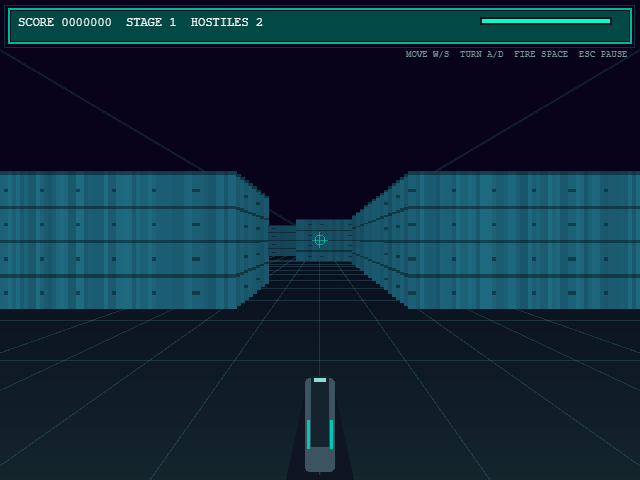
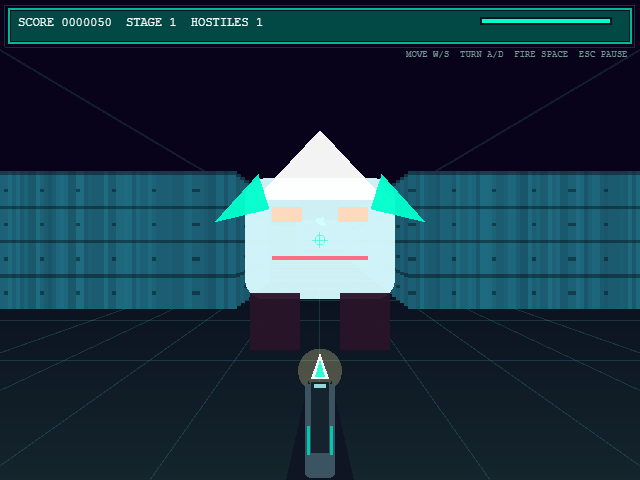
test(visuals): capture flagship combat impacts

Changed region(s): [[0.3438, 0.2812, 0.6562, 0.8125], [0.4688, 0.9375, 0.5312, 1.0]]

diff --git a/tests/e2e/flagship-visuals.spec.ts b/tests/e2e/flagship-visuals.spec.ts
@@ -1,118 +1,252 @@
-import { expect, test } from '@playwright/test';
-import { writeFile } from 'node:fs/promises';
+import { expect, test } from "@playwright/test";
+import { writeFile } from "node:fs/promises";
 
 const flagships = [
-  { index: 0, scene: 'SnakeScene', name: 'snake-evolution' },
-  { index: 1, scene: 'PongScene', name: 'neon-pong' },
-  { index: 2, scene: 'AsteroidsScene', name: 'neon-vector' },
-  { index: 3, scene: 'BreakoutScene', name: 'neon-breaker' },
-  { index: 4, scene: 'FroggerScene', name: 'froggie-crosser' },
-  { index: 5, scene: 'InvadersScene', name: 'space-defenders' },
-  { index: 6, scene: 'TetrisScene', name: 'tetris-pulse' },
-  { index: 7, scene: 'MinesweeperScene', name: 'minefield-sweep' },
-  { index: 8, scene: 'RunnerScene', name: 'pixel-runner' },
-  { index: 9, scene: 'BirdScene', name: 'brave-bird' },
-  { index: 10, scene: 'CyberScene', name: 'cyber-chasm' },
-  { index: 11, scene: 'RacerScene', name: 'cyber-racer' },
-  { index: 12, scene: 'RaycasterScene', name: 'cyber-caster' },
-  { index: 16, scene: 'TacticsScene', name: 'neon-tactics' },
-  { index: 17, scene: 'LabyrinthScene', name: 'neon-labyrinth' },
-  { index: 18, scene: 'DanmakuScene', name: 'neon-danmaku' },
-  { index: 19, scene: 'KombatScene', name: 'neon-kombat' },
-  { index: 20, scene: 'OdysseyScene', name: 'neon-odyssey' },
-  { index: 21, scene: 'ChronoScene', name: 'neon-chrono' },
-  { index: 22, scene: 'ParadoxScene', name: 'neon-paradox' },
-  { index: 23, scene: 'NexusScene', name: 'neon-nexus' },
-  { index: 24, scene: 'GenesisScene', name: 'neon-genesis' },
-  { index: 25, scene: 'OsScene', name: 'neon-os' },
-  { index: 26, scene: 'SingularityScene', name: 'the-singularity' },
-  { index: 27, scene: 'HorizonScene', name: 'event-horizon' },
-  { index: 28, scene: 'EpochScene', name: 'neon-epoch' },
-  { index: 29, scene: 'RelayScene', name: 'neon-relay' },
-  { index: 30, scene: 'SpiralScene', name: 'prism-spiral' },
+  { index: 0, scene: "SnakeScene", name: "snake-evolution" },
+  { index: 1, scene: "PongScene", name: "neon-pong" },
+  { index: 2, scene: "AsteroidsScene", name: "neon-vector" },
+  { index: 3, scene: "BreakoutScene", name: "neon-breaker" },
+  { index: 4, scene: "FroggerScene", name: "froggie-crosser" },
+  { index: 5, scene: "InvadersScene", name: "space-defenders" },
+  { index: 6, scene: "TetrisScene", name: "tetris-pulse" },
+  { index: 7, scene: "MinesweeperScene", name: "minefield-sweep" },
+  { index: 8, scene: "RunnerScene", name: "pixel-runner" },
+  { index: 9, scene: "BirdScene", name: "brave-bird" },
+  { index: 10, scene: "CyberScene", name: "cyber-chasm" },
+  { index: 11, scene: "RacerScene", name: "cyber-racer" },
+  { index: 12, scene: "RaycasterScene", name: "cyber-caster" },
+  { index: 16, scene: "TacticsScene", name: "neon-tactics" },
+  { index: 17, scene: "LabyrinthScene", name: "neon-labyrinth" },
+  { index: 18, scene: "DanmakuScene", name: "neon-danmaku" },
+  { index: 19, scene: "KombatScene", name: "neon-kombat" },
+  { index: 20, scene: "OdysseyScene", name: "neon-odyssey" },
+  { index: 21, scene: "ChronoScene", name: "neon-chrono" },
+  { index: 22, scene: "ParadoxScene", name: "neon-paradox" },
+  { index: 23, scene: "NexusScene", name: "neon-nexus" },
+  { index: 24, scene: "GenesisScene", name: "neon-genesis" },
+  { index: 25, scene: "OsScene", name: "neon-os" },
+  { index: 26, scene: "SingularityScene", name: "the-singularity" },
+  { index: 27, scene: "HorizonScene", name: "event-horizon" },
+  { index: 28, scene: "EpochScene", name: "neon-epoch" },
+  { index: 29, scene: "RelayScene", name: "neon-relay" },
+  { index: 30, scene: "SpiralScene", name: "prism-spiral" },
 ] as const;
 
-test('priority visual scenes lazy-load and render clean raw frames', async ({ page }, testInfo) => {
+test("priority visual scenes lazy-load and render clean raw frames", async ({
+  page,
+}, testInfo) => {
   test.setTimeout(90_000);
   const errors: string[] = [];
-  page.on('pageerror', error => errors.push(error.message));
+  page.on("pageerror", (error) => errors.push(error.message));
   await page.addInitScript(() => {
-    sessionStorage.setItem('bios_post_complete', 'true');
-    localStorage.setItem('bios_arcade_free_play', 'true');
-    localStorage.setItem('arcade_reduced_motion', 'true');
+    sessionStorage.setItem("bios_post_complete", "true");
+    localStorage.setItem("bios_arcade_free_play", "true");
+    localStorage.setItem("arcade_reduced_motion", "true");
   });
-  await page.goto('/');
-  const canvas = page.locator('#app canvas').first();
+  await page.goto("/");
+  const canvas = page.locator("#app canvas").first();
   await canvas.waitFor();
 
   for (const flagship of flagships) {
-    await page.evaluate(index => {
-      const game = (window as typeof window & { game: { scene: { getScene(key: string): unknown; start(key: string): void } } }).game;
-      game.scene.start('LobbyScene');
-      const lobby = game.scene.getScene('LobbyScene') as { selectedGameIndex: number; handleSpace(): void };
+    await page.evaluate((index) => {
+      const game = (
+        window as typeof window & {
+          game: {
+            scene: { getScene(key: string): unknown; start(key: string): void };
+          };
+        }
+      ).game;
+      game.scene.start("LobbyScene");
+      const lobby = game.scene.getScene("LobbyScene") as {
+        selectedGameIndex: number;
+        handleSpace(): void;
+      };
       lobby.selectedGameIndex = index;
       lobby.handleSpace();
       lobby.handleSpace();
     }, flagship.index);
-    await expect.poll(() => page.evaluate(scene => {
-      const game = (window as typeof window & { game: { scene: { getScene(key: string): { scene: { isActive(): boolean } } } } }).game;
-      try { return game.scene.getScene(scene).scene.isActive(); } catch { return false; }
-    }, flagship.scene)).toBe(true);
-    if (flagship.scene === 'BirdScene') await page.evaluate(() => {
-      const game = (window as any).game;
-      const scene = game.scene.getScene('BirdScene');
-      scene.spawnPipes();
-      for (const pipe of scene.pipes.getChildren()) {
-        pipe.body.reset(560, pipe.y);
-        pipe.body.setVelocityX(-scene.pipeSpeed);
-      }
-    });
-    if (flagship.scene === 'MinesweeperScene') await page.evaluate(() => {
-      const scene = (window as any).game.scene.getScene('MinesweeperScene');
-      scene.firstClick = false;
-      scene.placeMines(5, 5);
-      scene.reveal(scene.grid[5][5]);
-      const hidden = scene.grid.flat().find((tile: any) => !tile.revealed);
-      if (hidden) scene.toggleFlag(hidden);
-    });
-    if (flagship.scene === 'RunnerScene') await page.evaluate(() => {
-      const scene = (window as any).game.scene.getScene('RunnerScene');
-      scene.spawnObstacle();
-      for (const obstacle of scene.obstacles.getChildren()) {
-        obstacle.body.reset(520, obstacle.y);
-        obstacle.body.setVelocityX(-scene.speed);
-      }
-    });
-    await page.keyboard.down('ArrowUp');
-    await page.keyboard.down('Space');
-    await page.waitForTimeout(750);
-    await page.keyboard.up('Space');
-    await page.keyboard.up('ArrowUp');
-    const frame = await page.evaluate(() => new Promise<string>(resolve => {
-      const game = (window as typeof window & { game: { renderer: { snapshot(callback: (image: HTMLImageElement) => void): void } } }).game;
-      game.renderer.snapshot(image => resolve(image.src));
-    }));
-    const buffer = Buffer.from(frame.split(',')[1], 'base64');
+    await expect
+      .poll(() =>
+        page.evaluate((scene) => {
+          const game = (
+            window as typeof window & {
+              game: {
+                scene: {
+                  getScene(key: string): { scene: { isActive(): boolean } };
+                };
+              };
+            }
+          ).game;
+          try {
+            return game.scene.getScene(scene).scene.isActive();
+          } catch {
+            return false;
+          }
+        }, flagship.scene),
+      )
+      .toBe(true);
+    if (flagship.scene === "BirdScene")
+      await page.evaluate(() => {
+        const game = (window as any).game;
+        const scene = game.scene.getScene("BirdScene");
+        scene.spawnPipes();
+        for (const pipe of scene.pipes.getChildren()) {
+          pipe.body.reset(560, pipe.y);
+          pipe.body.setVelocityX(-scene.pipeSpeed);
+        }
+      });
+    if (flagship.scene === "MinesweeperScene")
+      await page.evaluate(() => {
+        const scene = (window as any).game.scene.getScene("MinesweeperScene");
+        scene.firstClick = false;
+        scene.placeMines(5, 5);
+        scene.reveal(scene.grid[5][5]);
+        const hidden = scene.grid.flat().find((tile: any) => !tile.revealed);
+        if (hidden) scene.toggleFlag(hidden);
+      });
+    if (flagship.scene === "RunnerScene")
+      await page.evaluate(() => {
+        const scene = (window as any).game.scene.getScene("RunnerScene");
+        scene.spawnObstacle();
+        for (const obstacle of scene.obstacles.getChildren()) {
+          obstacle.body.reset(520, obstacle.y);
+          obstacle.body.setVelocityX(-scene.speed);
+        }
+      });
+    if (flagship.scene === "RaycasterScene") {
+      const impact = await page.evaluate(() => {
+        const scene = (window as any).game.scene.getScene("RaycasterScene");
+        const target = {
+          x: scene.x + Math.cos(scene.angle) * 0.9,
+          y: scene.y + Math.sin(scene.angle) * 0.9,
+          kind: "ENEMY",
+          health: 2,
+          hitUntil: 0,
+        };
+        scene.entities = [target];
+        scene.fire();
+        scene.renderWorld();
+        return {
+          health: target.health,
+          hitVisible: target.hitUntil > scene.time.now,
+          muzzleVisible: scene.muzzleUntil > scene.time.now,
+          kick: scene.weaponKick,
+          score: scene.score,
+          shaking: scene.cameras.main.shakeEffect.isRunning,
+        };
+      });
+      expect(impact).toMatchObject({
+        health: 1,
+        hitVisible: true,
+        muzzleVisible: true,
+        kick: 1,
+        score: 50,
+        shaking: false,
+      });
+    } else if (flagship.scene === "KombatScene") {
+      await page.keyboard.down("KeyD");
+      await expect
+        .poll(
+          () =>
+            page.evaluate(() => {
+              const scene = (window as any).game.scene.getScene("KombatScene");
+              const state = scene.rollback.snapshot().state;
+              return Math.abs(state.p2.x - state.p1.x);
+            }),
+          { timeout: 3000 },
+        )
+        .toBeLessThanOrEqual(62);
+      await page.keyboard.up("KeyD");
+      const impactFrame = page.evaluate(
+        () =>
+          new Promise<{
+            combo: number;
+            damage: number;
+            hitstun: number;
+            shaking: boolean;
+          }>((resolve, reject) => {
+            const scene = (window as any).game.scene.getScene("KombatScene");
+            const deadline = performance.now() + 2000;
+            const captureHit = () => {
+              const state = scene.rollback.snapshot().state;
+              if (state.p2.health < 1000) {
+                scene.scene.pause();
+                scene.draw();
+                resolve({
+                  combo: state.p2.combo,
+                  damage: state.p2.comboDamage,
+                  hitstun: state.p2.hitstun,
+                  shaking: scene.cameras.main.shakeEffect.isRunning,
+                });
+              } else if (performance.now() >= deadline)
+                reject(new Error("Kombat action fixture did not land a hit"));
+              else requestAnimationFrame(captureHit);
+            };
+            requestAnimationFrame(captureHit);
+          }),
+      );
+      await page.keyboard.down("Space");
+      const impact = await impactFrame;
+      await page.keyboard.up("Space");
+      expect(impact.combo).toBeGreaterThan(0);
+      expect(impact.damage).toBeGreaterThan(0);
+      expect(impact.hitstun).toBeGreaterThan(0);
+      expect(impact.shaking).toBe(false);
+    } else {
+      await page.keyboard.down("ArrowUp");
+      await page.keyboard.down("Space");
+      await page.waitForTimeout(750);
+      await page.keyboard.up("Space");
+      await page.keyboard.up("ArrowUp");
+    }
+    const frame = await page.evaluate(
+      () =>
+        new Promise<string>((resolve) => {
+          const game = (
+            window as typeof window & {
+              game: {
+                renderer: {
+                  snapshot(callback: (image: HTMLImageElement) => void): void;
+                };
+              };
+            }
+          ).game;
+          game.renderer.snapshot((image) => resolve(image.src));
+        }),
+    );
+    const buffer = Buffer.from(frame.split(",")[1], "base64");
     expect(buffer.readUInt32BE(16)).toBe(640);
     expect(buffer.readUInt32BE(20)).toBe(480);
     const capturePath = testInfo.outputPath(`${flagship.name}-raw-frame.png`);
     await writeFile(capturePath, buffer);
-    await testInfo.attach(`${flagship.name}-raw-frame`, { path: capturePath, contentType: 'image/png' });
+    await testInfo.attach(`${flagship.name}-raw-frame`, {
+      path: capturePath,
+      contentType: "image/png",
+    });
 
-    if (flagship.scene === 'DanmakuScene' || flagship.scene === 'RaycasterScene') {
-      const shaking = await page.evaluate(key => {
+    if (flagship.scene === "DanmakuScene") {
+      const shaking = await page.evaluate((key) => {
         const game = (window as any).game;
         const scene = game.scene.getScene(key);
-        if (key === 'DanmakuScene') {
-          scene.projectiles.clear();
-          scene.projectiles.spawn({ x: scene.playerX, y: scene.playerY, vx: 0, vy: 0, life: 1, kind: 0 });
-          const lives = scene.lives;
-          scene.collide();
-          if (scene.lives === lives) throw new Error('Collision fixture did not hit the player');
-        } else scene.fire();
+        scene.projectiles.clear();
+        scene.projectiles.spawn({
+          x: scene.playerX,
+          y: scene.playerY,
+          vx: 0,
+          vy: 0,
+          life: 1,
+          kind: 0,
+        });
+        const lives = scene.lives;
+        scene.collide();
+        if (scene.lives === lives)
+          throw new Error("Collision fixture did not hit the player");
         return scene.cameras.main.shakeEffect.isRunning;
       }, flagship.scene);
-      expect(shaking, `${flagship.scene} must honor reduced motion during impacts`).toBe(false);
+      expect(
+        shaking,
+        `${flagship.scene} must honor reduced motion during impacts`,
+      ).toBe(false);
     }
   }
 

diff --git a/docs/VISUAL_OVERHAUL_PLAN.md b/docs/VISUAL_OVERHAUL_PLAN.md
@@ -89,10 +89,10 @@ Tier 1 establishes the visual benchmark. It is complete only when each game has 
 |---|---|
 | Neon Breaker | Brick/paddle/ball materials, framed arena, silhouette-specific power-up icons, motion-safe drop animation, and pickup feedback implemented; final high-action acceptance remains. |
 | Cyber-Racer | Layered skyline/road, designed roadside silhouettes, readable player/ghost vehicles, exhaust, boost feedback, and reduced-motion-safe collisions implemented. |
-| Neon Cyber-Caster | Textured dungeon modules, occluded enemy/pickup silhouettes, distance fog, weapon recoil, muzzle flash, impact states, and incoming-damage framing implemented; final encounter-state acceptance remains. |
+| Neon Cyber-Caster | Textured dungeon modules, occluded enemy/pickup silhouettes, distance fog, weapon recoil, muzzle flash, impact states, and incoming-damage framing implemented. Automated encounter-state acceptance now verifies a live enemy hit, score, recoil, flash timing, and reduced-motion-safe camera behavior; final art-direction sign-off remains. |
 | Neon Danmaku | Layered arena, articulated boss armor, silhouette-specific bullet families, adaptive draw density, reduced-motion-safe hit response, and named spell-card phase transitions implemented; final high-action art acceptance remains. |
 | Neon Labyrinth | Beveled room tiles, emissive fluid, reward glyph, readable player body, and layered procedural boss implemented. |
-| Neon Kombat | Distinct articulated fighters, rooftop arena, hit/block/combo states, cloth/cape integration, impact feedback, and round/winner presentation implemented; final versus-state acceptance remains. |
+| Neon Kombat | Distinct articulated fighters, rooftop arena, hit/block/combo states, cloth/cape integration, impact feedback, and round/winner presentation implemented. Automated versus-state acceptance now drives real P1 movement and attack input into a verified damage, combo, hit-stun, and reduced-motion-safe impact frame; final art-direction sign-off remains. |
 | Prism Spiral | Layered pilot/wisp sprites, deterministic star depth, orbit materials, and pooled shield/impact effects implemented. |
 
 ### Tier 3: classic cabinet refresh
@@ -162,6 +162,6 @@ The first Tier 5 presentation pass is implemented. Meta-Arcade has a layered hal
 
 ## Current status
 
-Verification update (2026-09-08): twenty-eight gameplay scenes have real 640x480 production-frame capture coverage, including every Tier 3 classic and the complete procedural-world batch; Tier 5 presentation surfaces are covered by dedicated functional render tests. TypeScript analysis, all 362 unit tests, the three bundle-gate fixtures, and all 72 Chromium regressions pass locally. The acceptance suite now stresses Danmaku with 512 live projectiles and The Singularity's heavy renderer under LOW quality and reduced motion, enforces bounded p95 frame cadence plus dark/bright luminance separation, verifies named Danmaku spell-card transitions, and verifies silhouette-specific Breaker power-ups freeze their transforms in reduced-motion mode. Active projectile scans terminate once the active population is visited. The performance gate retains a 45 ms target on normal hosts, calibrates against idle rAF cadence on throttled runners, and never permits more than 75 ms; the fixed 45 ms local path passes five consecutive runs after the scan repair. Production output is **1,891,281 bytes**, leaving **58,719 bytes** below the ceiling. Commit `64c752d` passed complete GitHub validation, including Linux Firefox; the newest action-feedback commits require remote CI. WebKit's three local smoke tests and the native Cargo build previously pass.
+Verification update (2026-09-13): twenty-eight gameplay scenes have real 640x480 production-frame capture coverage, including every Tier 3 classic and the complete procedural-world batch; Tier 5 presentation surfaces are covered by dedicated functional render tests. TypeScript analysis, all 362 unit tests, the three bundle-gate fixtures, and all 72 Chromium regressions pass locally. The acceptance suite now stresses Danmaku with 512 live projectiles and The Singularity's heavy renderer under LOW quality and reduced motion, enforces bounded p95 frame cadence plus dark/bright luminance separation, verifies named Danmaku spell-card transitions, verifies silhouette-specific Breaker power-ups freeze their transforms in reduced-motion mode, and captures Cyber-Caster and Kombat only after their real combat state confirms an impact. Active projectile scans terminate once the active population is visited. The performance gate retains a 45 ms target on normal hosts, calibrates against idle rAF cadence on throttled runners, and never permits more than 75 ms; the fixed 45 ms local path passes five consecutive runs after the scan repair. Production output is **1,891,281 bytes**, leaving **58,719 bytes** below the ceiling. Commit `fb40b6b` passed GitHub validation. WebKit's three local smoke tests and the native Cargo build previously pass.
 
 The captures are rendering and active-state smoke artifacts, not pixel-difference baselines or proof of completed art acceptance. Local Firefox remains blocked before application startup by a Windows side-by-side `mozglue` assembly error, so Linux Firefox in GitHub CI remains authoritative. Remaining work is catalog-wide action, hit, destruction, projectile, and objective animation; extending performance and accessibility acceptance beyond the representative heavy scenes; README gallery curation for the strongest final gameplay frames; and final art acceptance.

diff --git a/README.md b/README.md
@@ -10,7 +10,7 @@
 
 ## Real gameplay gallery — visual overhaul in progress
 
-These are unedited 640x480 frames exported from the production build after keyboard input, with the cabinet CRT presentation excluded. They show the current implementation, not concept art or a promise of final quality. The gallery was refreshed from the passing 72-test Chromium run on 2026-09-08. The v2.6 overhaul is still in progress: the first twenty-eight scene passes do not yet meet every animation, accessibility, and art-direction acceptance criterion in the [visual production plan](docs/VISUAL_OVERHAUL_PLAN.md).
+These are unedited 640x480 frames exported from the production build after keyboard input, with the cabinet CRT presentation excluded. They show the current implementation, not concept art or a promise of final quality. The gallery was refreshed through the passing production-frame capture run on 2026-09-13; Cyber-Caster and Neon Kombat now show verified live impact states rather than idle encounter setup. The v2.6 overhaul is still in progress: the first twenty-eight scene passes do not yet meet every animation, accessibility, and art-direction acceptance criterion in the [visual production plan](docs/VISUAL_OVERHAUL_PLAN.md).
 
 <p align="center">
   <img src="docs/images/screenshots/v26-neon-vector.png" alt="Neon Vector actual gameplay with faceted asteroids and a cyan ship" width="640">
@@ -19,11 +19,11 @@ These are unedited 640x480 frames exported from the production build after keybo
 
 | Neon Danmaku | Neon Kombat |
 |---|---|
-| ![Actual Neon Danmaku boss and bullet pattern](docs/images/screenshots/v26-neon-danmaku.png) | ![Actual Neon Kombat fighters on the rooftop arena](docs/images/screenshots/v26-neon-kombat.png) |
+| ![Actual Neon Danmaku boss and bullet pattern](docs/images/screenshots/v26-neon-danmaku.png) | ![Actual Neon Kombat live hit and combo state on the rooftop arena](docs/images/screenshots/v26-neon-kombat.png) |
 
 | Neon Breaker | Neon Cyber-Caster |
 |---|---|
-| ![Actual Neon Breaker brick field, paddle, and live ball](docs/images/screenshots/v26-neon-breaker.png) | ![Actual Neon Cyber-Caster raycast dungeon and weapon view](docs/images/screenshots/v26-cyber-caster.png) |
+| ![Actual Neon Breaker brick field, paddle, and live ball](docs/images/screenshots/v26-neon-breaker.png) | ![Actual Neon Cyber-Caster muzzle flash and enemy impact in the raycast dungeon](docs/images/screenshots/v26-cyber-caster.png) |
 
 | Neon Relay | Neon Epoch |
 |---|---|
@@ -45,7 +45,7 @@ These are unedited 640x480 frames exported from the production build after keybo
 |---|---|
 | ![Actual Pixel Runner night-sector gameplay](docs/images/screenshots/v26-pixel-runner.png) | ![Actual Cyber Chasm data-vault maze](docs/images/screenshots/v26-cyber-chasm.png) |
 
-Capture provenance: `tests/e2e/flagship-visuals.spec.ts`, Chromium, reduced motion enabled, production build. Background plates are original generated artwork; gameplay actors and effects are rendered by the game. Documentation screenshots are not included in the production bundle.
+Capture provenance: `tests/e2e/flagship-visuals.spec.ts`, Chromium, reduced motion enabled, production build. The Cyber-Caster fixture verifies weapon recoil, muzzle flash, enemy damage, score, and hit timing; the Kombat fixture drives the real P1 input path until a verified hit, combo, and hit-stun state. Background plates are original generated artwork; gameplay actors and effects are rendered by the game. Documentation screenshots are not included in the production bundle.
 
 ## Current milestone
 
